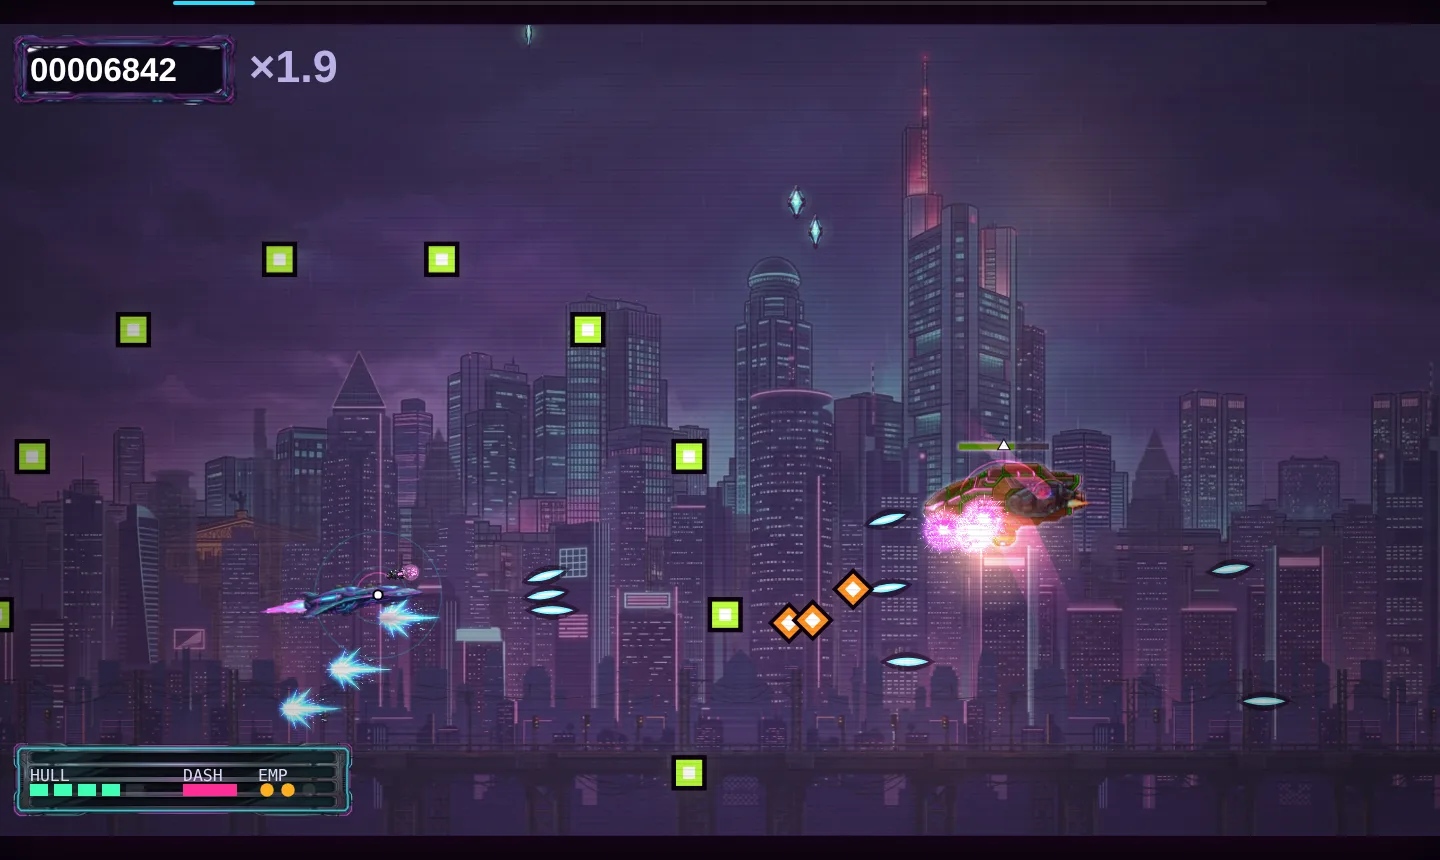
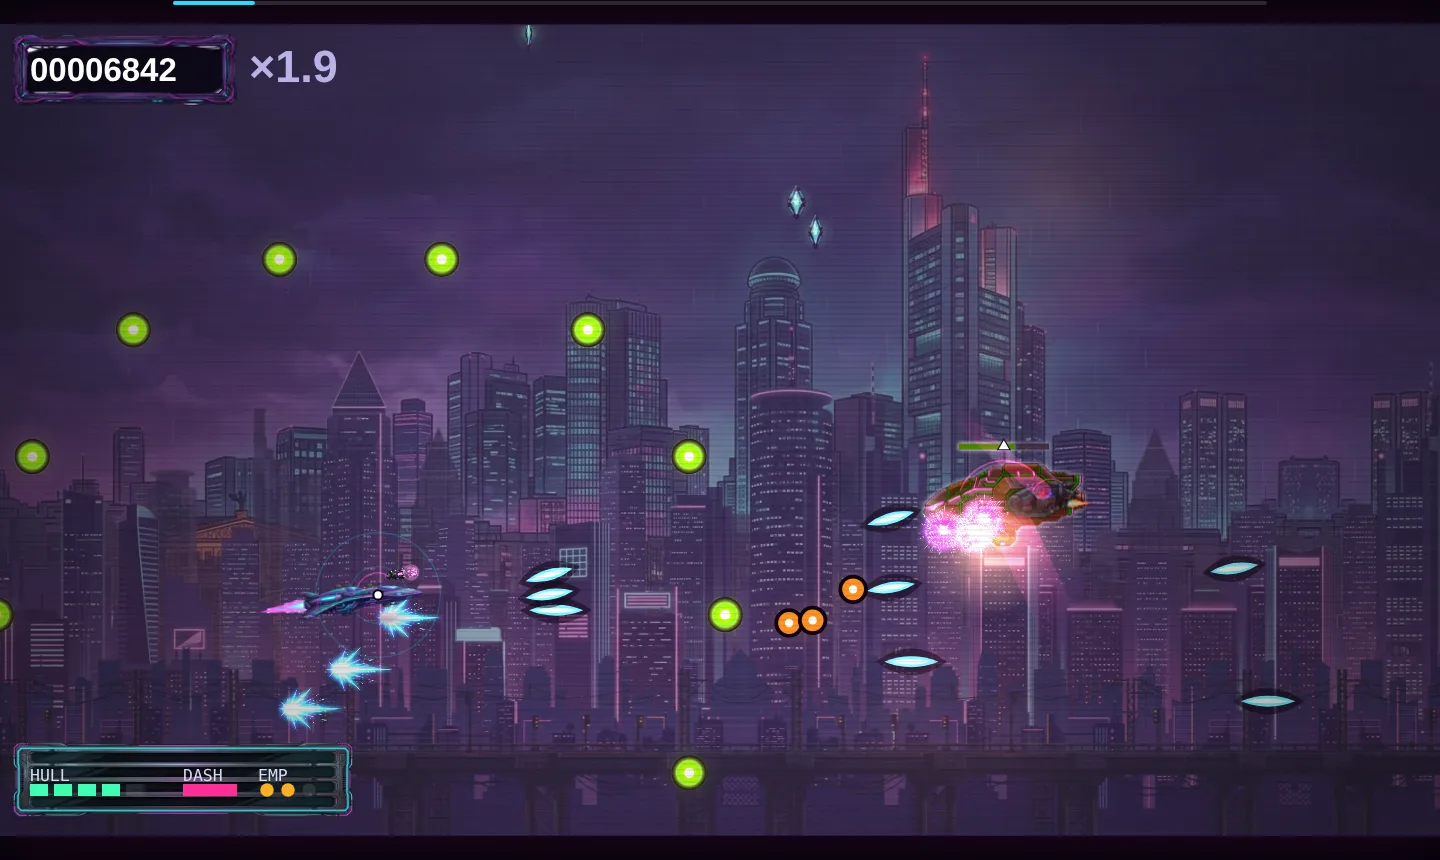
Bigger player bolts, new phone and PC shots

diff --git a/games-src/nightrun/parts/render/shots.js b/games-src/nightrun/parts/render/shots.js
@@ -39,7 +39,7 @@ const SHOTS=window.SHOTS={seq:0,pLast:0,eFirst:1e9,eUnder:0,seen:{},pp:[],
     ctx.restore();},
   lens(x0,x1,h){ctx.beginPath();ctx.moveTo(x0,0);ctx.quadraticCurveTo((x0+x1)/2,-h*1.6,x1,0);ctx.quadraticCurveTo((x0+x1)/2,h*1.6,x0,0);},   // a pointed bolt, h = half thickness (the curves reach 0.8 h)
   /* player shots (one call per shot, inside the 'lighter' loop of render()): underlay, the weapon's picture, glow line, white core */
-  player(b){if(this.ft!==G.t){this.ft=G.t;this.pp.length=0;}const u=window.READ?READ.ppu():1,ang=(b.vx||b.vy)?Math.atan2(b.vy,b.vx):0,L=(b.len||(b.big?22:b.pn!=null?28:20))*1.5,tw=Math.max((b.th||3)*1.6,8/u),tf=ctx.getTransform(),
+  player(b){if(this.ft!==G.t){this.ft=G.t;this.pp.length=0;}const u=window.READ?READ.ppu():1,ang=(b.vx||b.vy)?Math.atan2(b.vy,b.vx):0,L=(b.len||(b.big?22:b.pn!=null?28:20))*1.9,tw=Math.max((b.th||3)*2,11/u),tf=ctx.getTransform(),
       k=b.wid&&FXW.pic('w-'+b.wid+'-bullet')?'fx-w-'+b.wid+'-bullet':null,o=k&&ART.sp(k,Math.max(24,Math.min(140,L*1.4+tw*2))*1.3),sp=b.wid&&FXW.SPIN[b.wid];
     ctx.save();ctx.translate(b.x,b.y);ctx.rotate(ang);ctx.globalCompositeOperation='source-over';ctx.globalAlpha=.5;ctx.fillStyle=this.RING;this.lens(-L*.3,L*.95,tw*1.5);ctx.fill();ctx.restore();
     if(o){ctx.save();if(!FXW.SOLID[b.wid])ctx.globalCompositeOperation='lighter';ART.put(o,b.x+(sp?0:Math.cos(ang)*L*.3),b.y+(sp?0:Math.sin(ang)*L*.3),ang+(sp?G.t*9:0),1);ctx.restore();}

diff --git a/games-src/nightrun/review-shots/W208/README.md b/games-src/nightrun/review-shots/W208/README.md
@@ -19,3 +19,6 @@ Comparison: reference frame URL not set, no benchmark frame could be fetched fro
 ## Audit follow-up (ASSET-USE-2026-10-24): enemy shots now draw the owner's pictures
 `qa/assetuse.js` (ONLY=flight, stage 1 + boss, 1 seed): fx-bullet-enemy 6.2k draws, fx-bullet-needle 1.4k, fx-bullet-shell 0.5k, fx-eb-plasma 1.2k (before: needle/shell/plasma were 0 or boss-only). Mapping: turret = enemy ball (pink), timing wall = enemy ball (lime), homing = enemy ball (magenta), charger = shell, gunship = plasma, drone = needle, heavy shell = big shell, rocket = rocket + fx-eb-rocket-trail. Dark outline disc and white core stay under each picture (readability). Probe unchanged: 5 looks, contrast p10 8.6:1, 0 below 3:1.
 NOT proven drawn: fx-bullet-rocket and fx-eb-rocket-trail (rocket shots need gunship at difficulty 4+, never in stage 1), and fx-eb aim line, sniper beam, bomb, mine, heal ring, shield bubble, laser sweep, shockwave ring: those belong to enemy kinds (zoo) and boss telegraph code that stage 1 and its boss never spawn, so a bullet-drawing change cannot reach them; they need those enemies in a stage or a boss-move owner.
+
+## Boxy squares fix (owner via orchestrator, 24 Oct 17:55)
+The lime squares and orange diamonds were from the previous commit; the pair above is new and shows owner pictures instead (lime and orange balls from fx-bullet-enemy / fx-bullet-shell). Player bolts bigger: lit width 11 CSS px (was 8), 1.9x length. Probe: contrast median 14.9:1 phone, p10 9:1 phone / 7:1 PC, 0 below 3:1. Still code-drawn: the cyan lens on player bolts for weapons without a picture (the blue spiky ones are the owner's pictures), and the dark outline discs under enemy shots.
